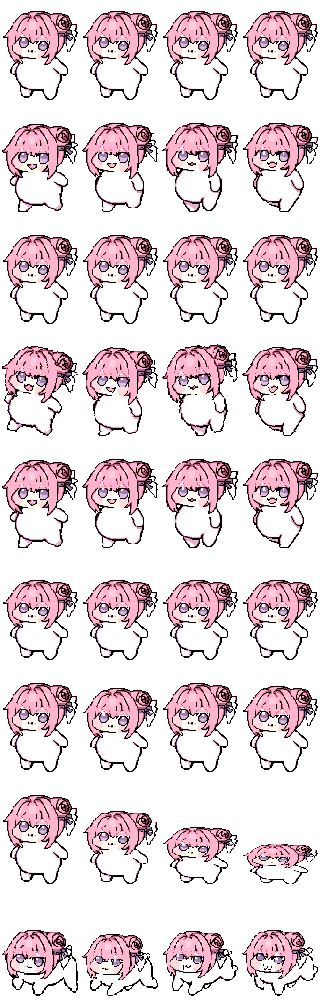
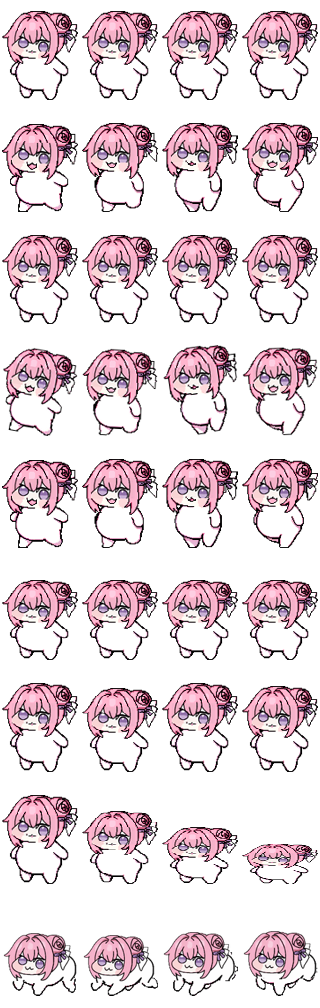
Polish Doro linework and reference likeness

diff --git a/docs/DEVELOPMENT.md b/docs/DEVELOPMENT.md
@@ -26,6 +26,6 @@ The helper in `Core/CosmeticState.cs` is checked by `checks/Program.cs`.
 
 Hachiware and Doro were made with the PixelLab API from the supplied character
 references. PixelLab generated the base sprites and movement frames. The frames
-were aligned to the sheet grid, and Doro's eyes and running mouth were retouched.
+were aligned to the sheet grid, and the reference face was aligned across Doro's poses.
 The supplied animation guided Doro's running pose. The API key stays outside
 the repository.
